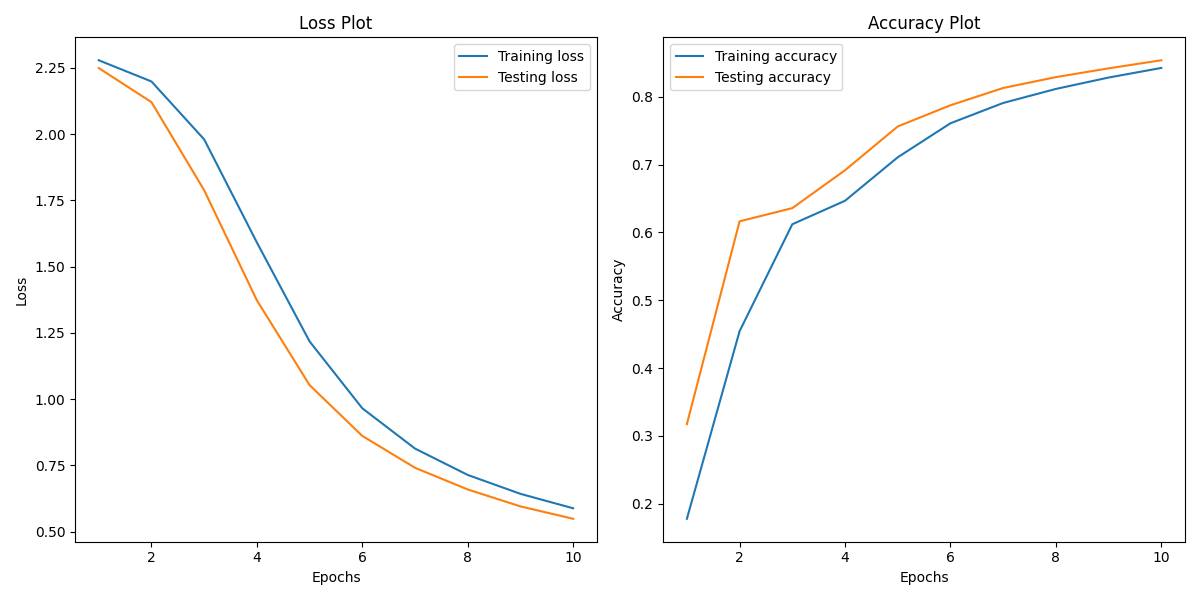
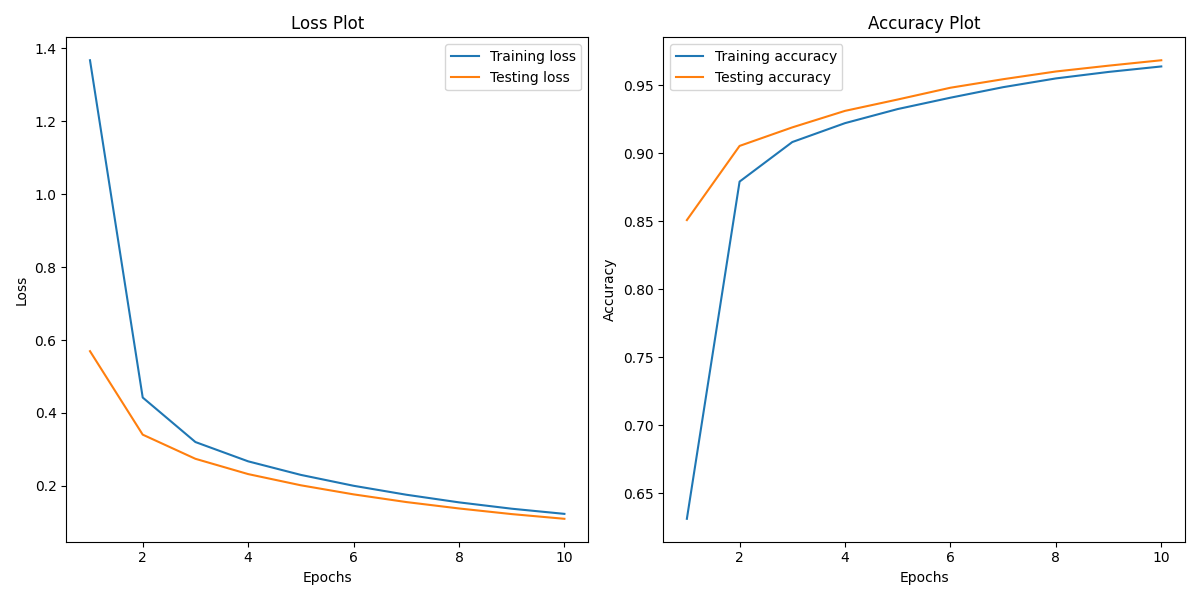
momentum

diff --git a/train.py b/train.py
@@ -20,7 +20,7 @@ def main(epochs: int, modern: bool):
 
     device = "cuda" if torch.cuda.is_available() else "cpu"
     lr = 1e-3
-    optimizer = torch.optim.SGD(model.parameters(), lr=lr)
+    optimizer = torch.optim.SGD(model.parameters(), lr=lr, momentum=0.9)
 
     train_dataloader, test_dataloader = mnist_dataloader()
 
